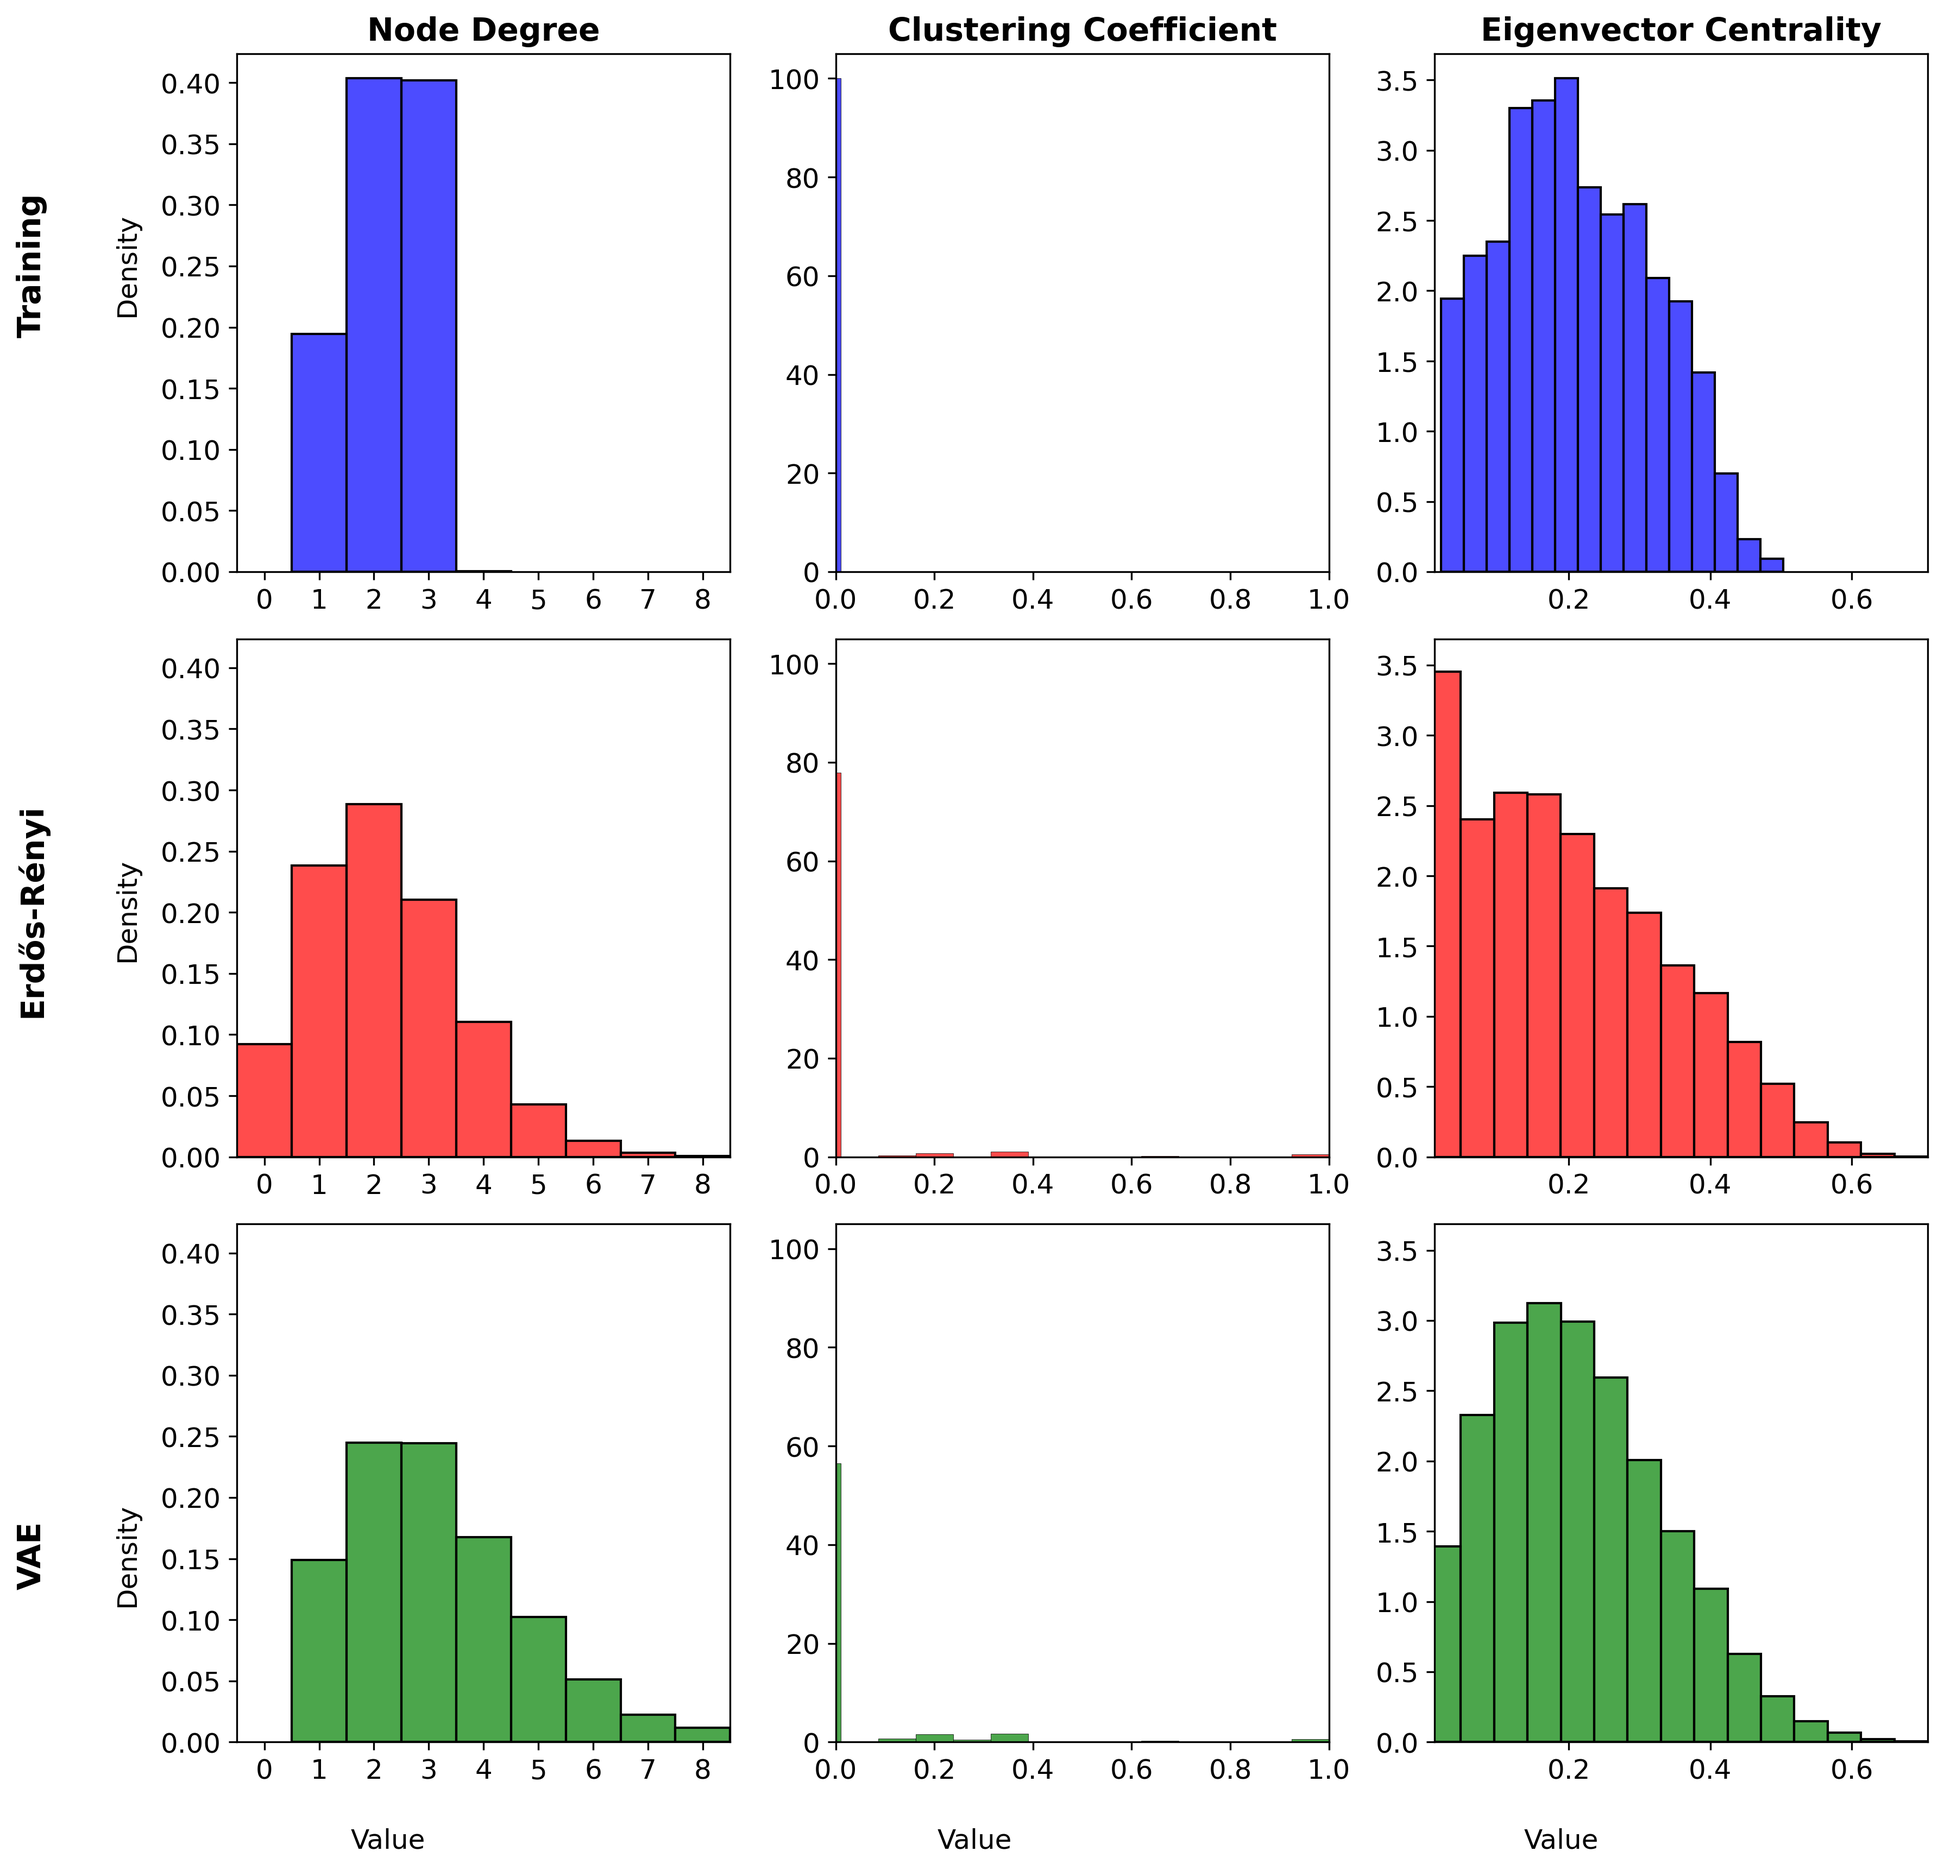
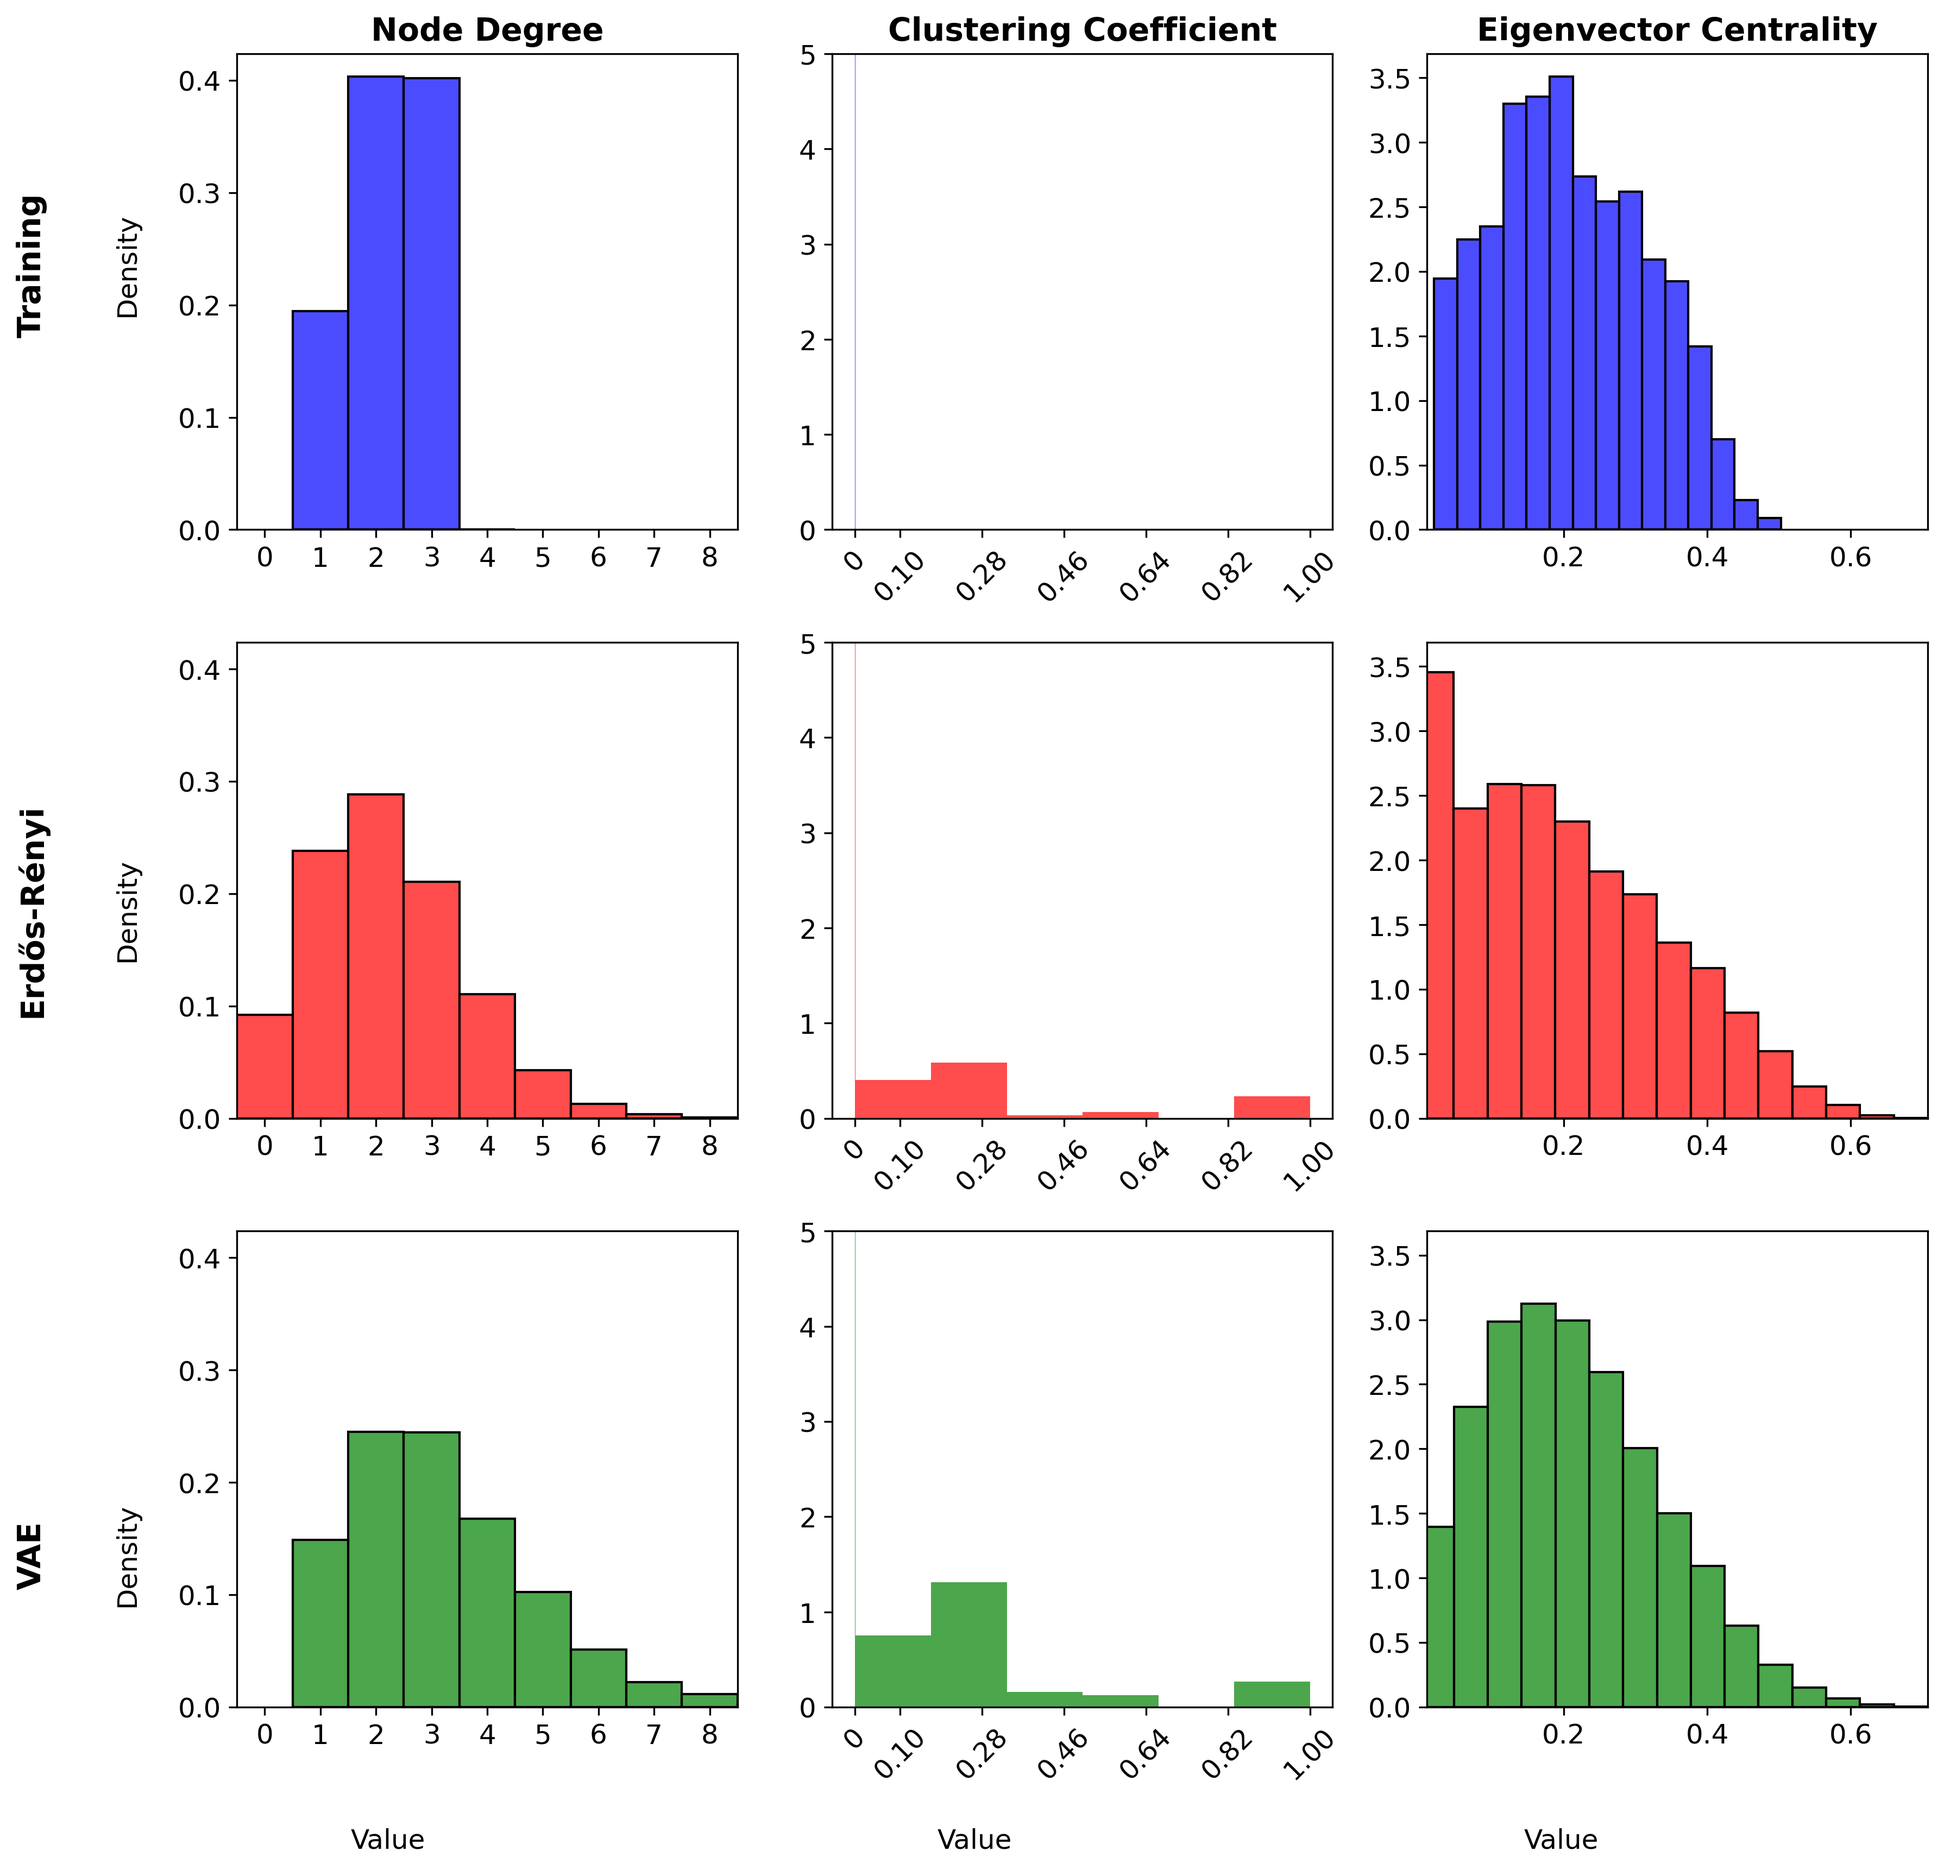
checkpoint

diff --git a/eval_vae.py b/eval_vae.py
@@ -262,9 +262,14 @@ degree_min = int(min(training_degrees + generated_degrees + erdos_renyi_degrees)
 degree_max = 8  # Fixed upper limit for node degree at 8
 degree_bins = list(range(degree_min, degree_max + 1))  # Integer bins from min to max
 
-# For clustering coefficient, use a special binning that emphasizes zero values
-# Create custom bins for clustering coefficient with special handling for zero
-clustering_bins = [0] + list(np.linspace(0.01, max(training_clustering + generated_clustering + erdos_renyi_clustering), num_bins-1))
+# Create custom bins for clustering coefficient with explicit first bin for zero values
+cluster_max = max(training_clustering + generated_clustering + erdos_renyi_clustering)
+# Special bin structure with a narrow bin for zeros then regular bins
+clustering_bins = [0, 0.001] + list(np.linspace(0.001, cluster_max, 7))
+
+# Calculate bin centers for x-ticks - ensure first bin is properly represented
+clustering_ticks = [0] + list(np.linspace(0.1, cluster_max, 6))
+clustering_labels = ['0'] + [f'{x:.2f}' for x in np.linspace(0.1, cluster_max, 6)]
 
 # Create a 3-by-3 grid of subplots with shared y-axis per column
 fig, axes = plt.subplots(3, 3, figsize=(12, 12), sharey='col')
@@ -300,6 +305,9 @@ sns.histplot(training_degrees, color='blue', kde=False, stat="density", bins=deg
 # Special handling for clustering coefficient
 sns.histplot(training_clustering, color='blue', kde=False, stat="density", bins=clustering_bins, ax=axes[0, 1], 
              line_kws={"linewidth": 2}, element="bars", alpha=0.7)
+# Create custom x-ticks that show "0" for the first bin and nice spacing for others
+axes[0, 1].set_xticks(clustering_ticks)
+axes[0, 1].set_xticklabels(clustering_labels, rotation=45, ha='center')
 sns.histplot(training_eigenvector, color='blue', kde=False, stat="density", bins=num_bins, ax=axes[0, 2], 
              line_kws={"linewidth": 2}, element="bars", alpha=0.7)
 
@@ -308,6 +316,8 @@ sns.histplot(erdos_renyi_degrees, color='red', kde=False, stat="density", bins=d
              line_kws={"linewidth": 2}, element="bars", alpha=0.7, discrete=True)
 sns.histplot(erdos_renyi_clustering, color='red', kde=False, stat="density", bins=clustering_bins, ax=axes[1, 1], 
              line_kws={"linewidth": 2}, element="bars", alpha=0.7)
+axes[1, 1].set_xticks(clustering_ticks)
+axes[1, 1].set_xticklabels(clustering_labels, rotation=45, ha='center')
 sns.histplot(erdos_renyi_eigenvector, color='red', kde=False, stat="density", bins=num_bins, ax=axes[1, 2], 
              line_kws={"linewidth": 2}, element="bars", alpha=0.7)
 
@@ -316,6 +326,8 @@ sns.histplot(generated_degrees, color='green', kde=False, stat="density", bins=d
              line_kws={"linewidth": 2}, element="bars", alpha=0.7, discrete=True)
 sns.histplot(generated_clustering, color='green', kde=False, stat="density", bins=clustering_bins, ax=axes[2, 1], 
              line_kws={"linewidth": 2}, element="bars", alpha=0.7)
+axes[2, 1].set_xticks(clustering_ticks)
+axes[2, 1].set_xticklabels(clustering_labels, rotation=45, ha='center')
 sns.histplot(generated_eigenvector, color='green', kde=False, stat="density", bins=num_bins, ax=axes[2, 2], 
              line_kws={"linewidth": 2}, element="bars", alpha=0.7)
 
@@ -327,14 +339,25 @@ for ax in [axes[0, 0], axes[1, 0], axes[2, 0]]:
     ax.set_ylabel('')  # Remove individual y labels
     
 for ax in [axes[0, 1], axes[1, 1], axes[2, 1]]:
-    ax.set_xlim(clustering_min, clustering_max)
+    ax.set_xlim(-0.05, cluster_max + 0.05)  # Extend left boundary to show full first bar
     ax.tick_params(labelsize=12)
     ax.set_ylabel('')  # Remove individual y labels
+    # Fix y-axis to reasonable density values 
+    ax.set_ylim(0, None)  # Let matplotlib determine upper bound based on data
     
 for ax in [axes[0, 2], axes[1, 2], axes[2, 2]]:
     ax.set_xlim(max(0.01, eigenvector_min), eigenvector_max)  # Start from slightly above 0
     ax.tick_params(labelsize=12) 
     ax.set_ylabel('')  # Remove individual y labels
+    # Fix y-axis to reasonable density values
+    ax.set_ylim(0, None)  # Let matplotlib determine upper bound based on data
+
+# Ensure density scaling is correct across all plots
+for row in axes:
+    for ax in row:
+        current_ylim = ax.get_ylim()
+        if current_ylim[1] > 5:  # If scale appears to be percentage rather than density
+            ax.set_ylim(0, min(5, current_ylim[1]/100))  # Cap at 5 for density scale
 
 # Adjust layout and save the figure
 plt.tight_layout(rect=[0.08, 0.04, 1, 0.97])  # Adjust to leave space for labels
